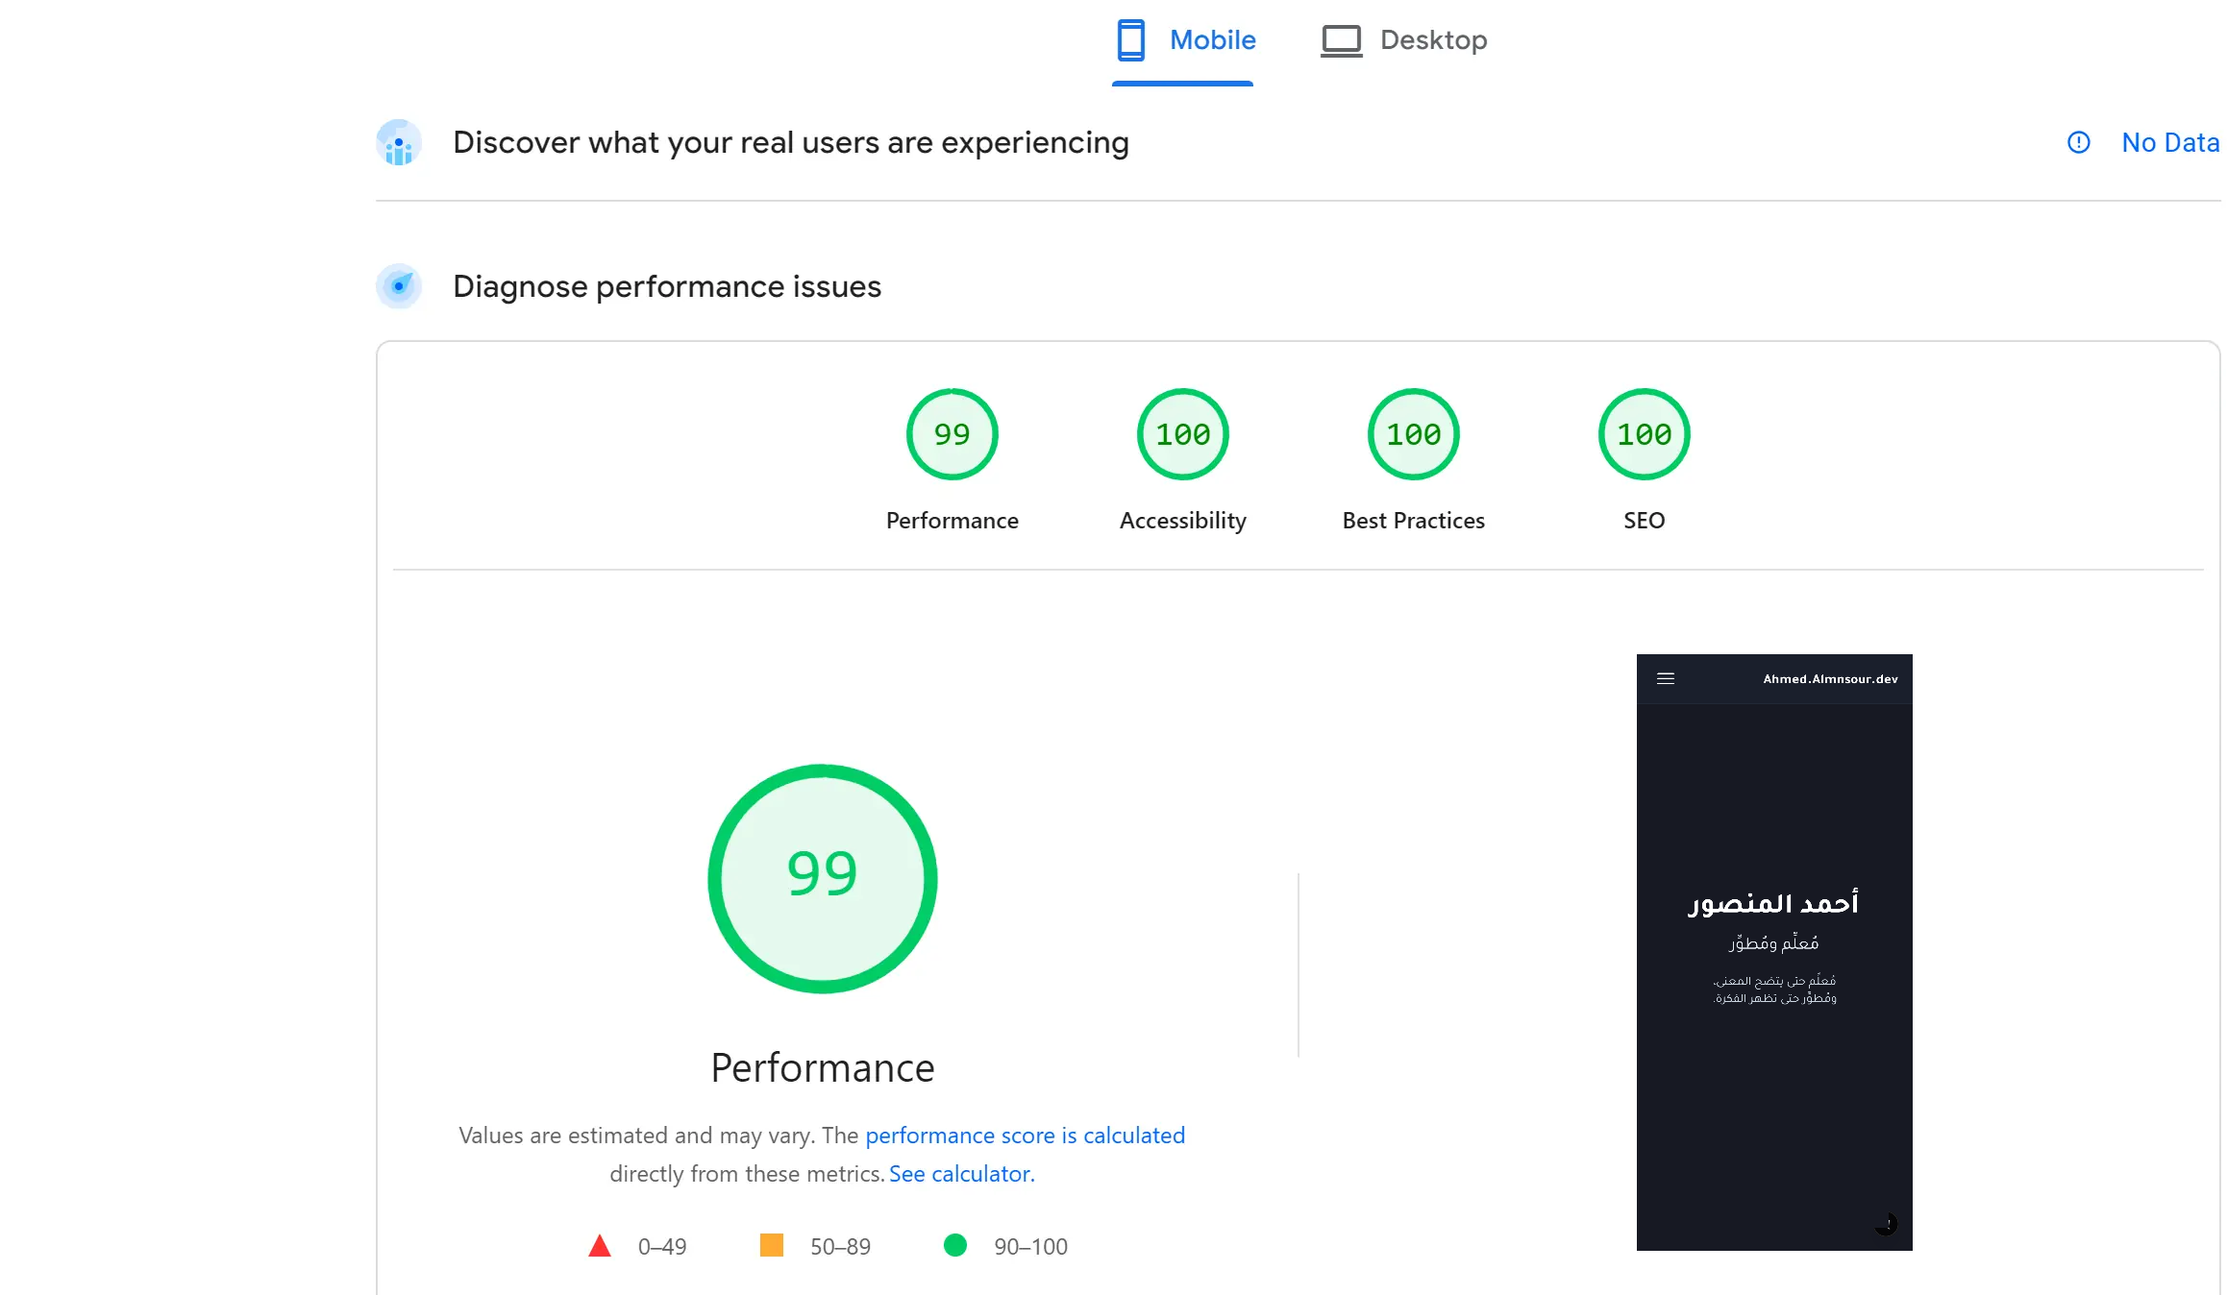
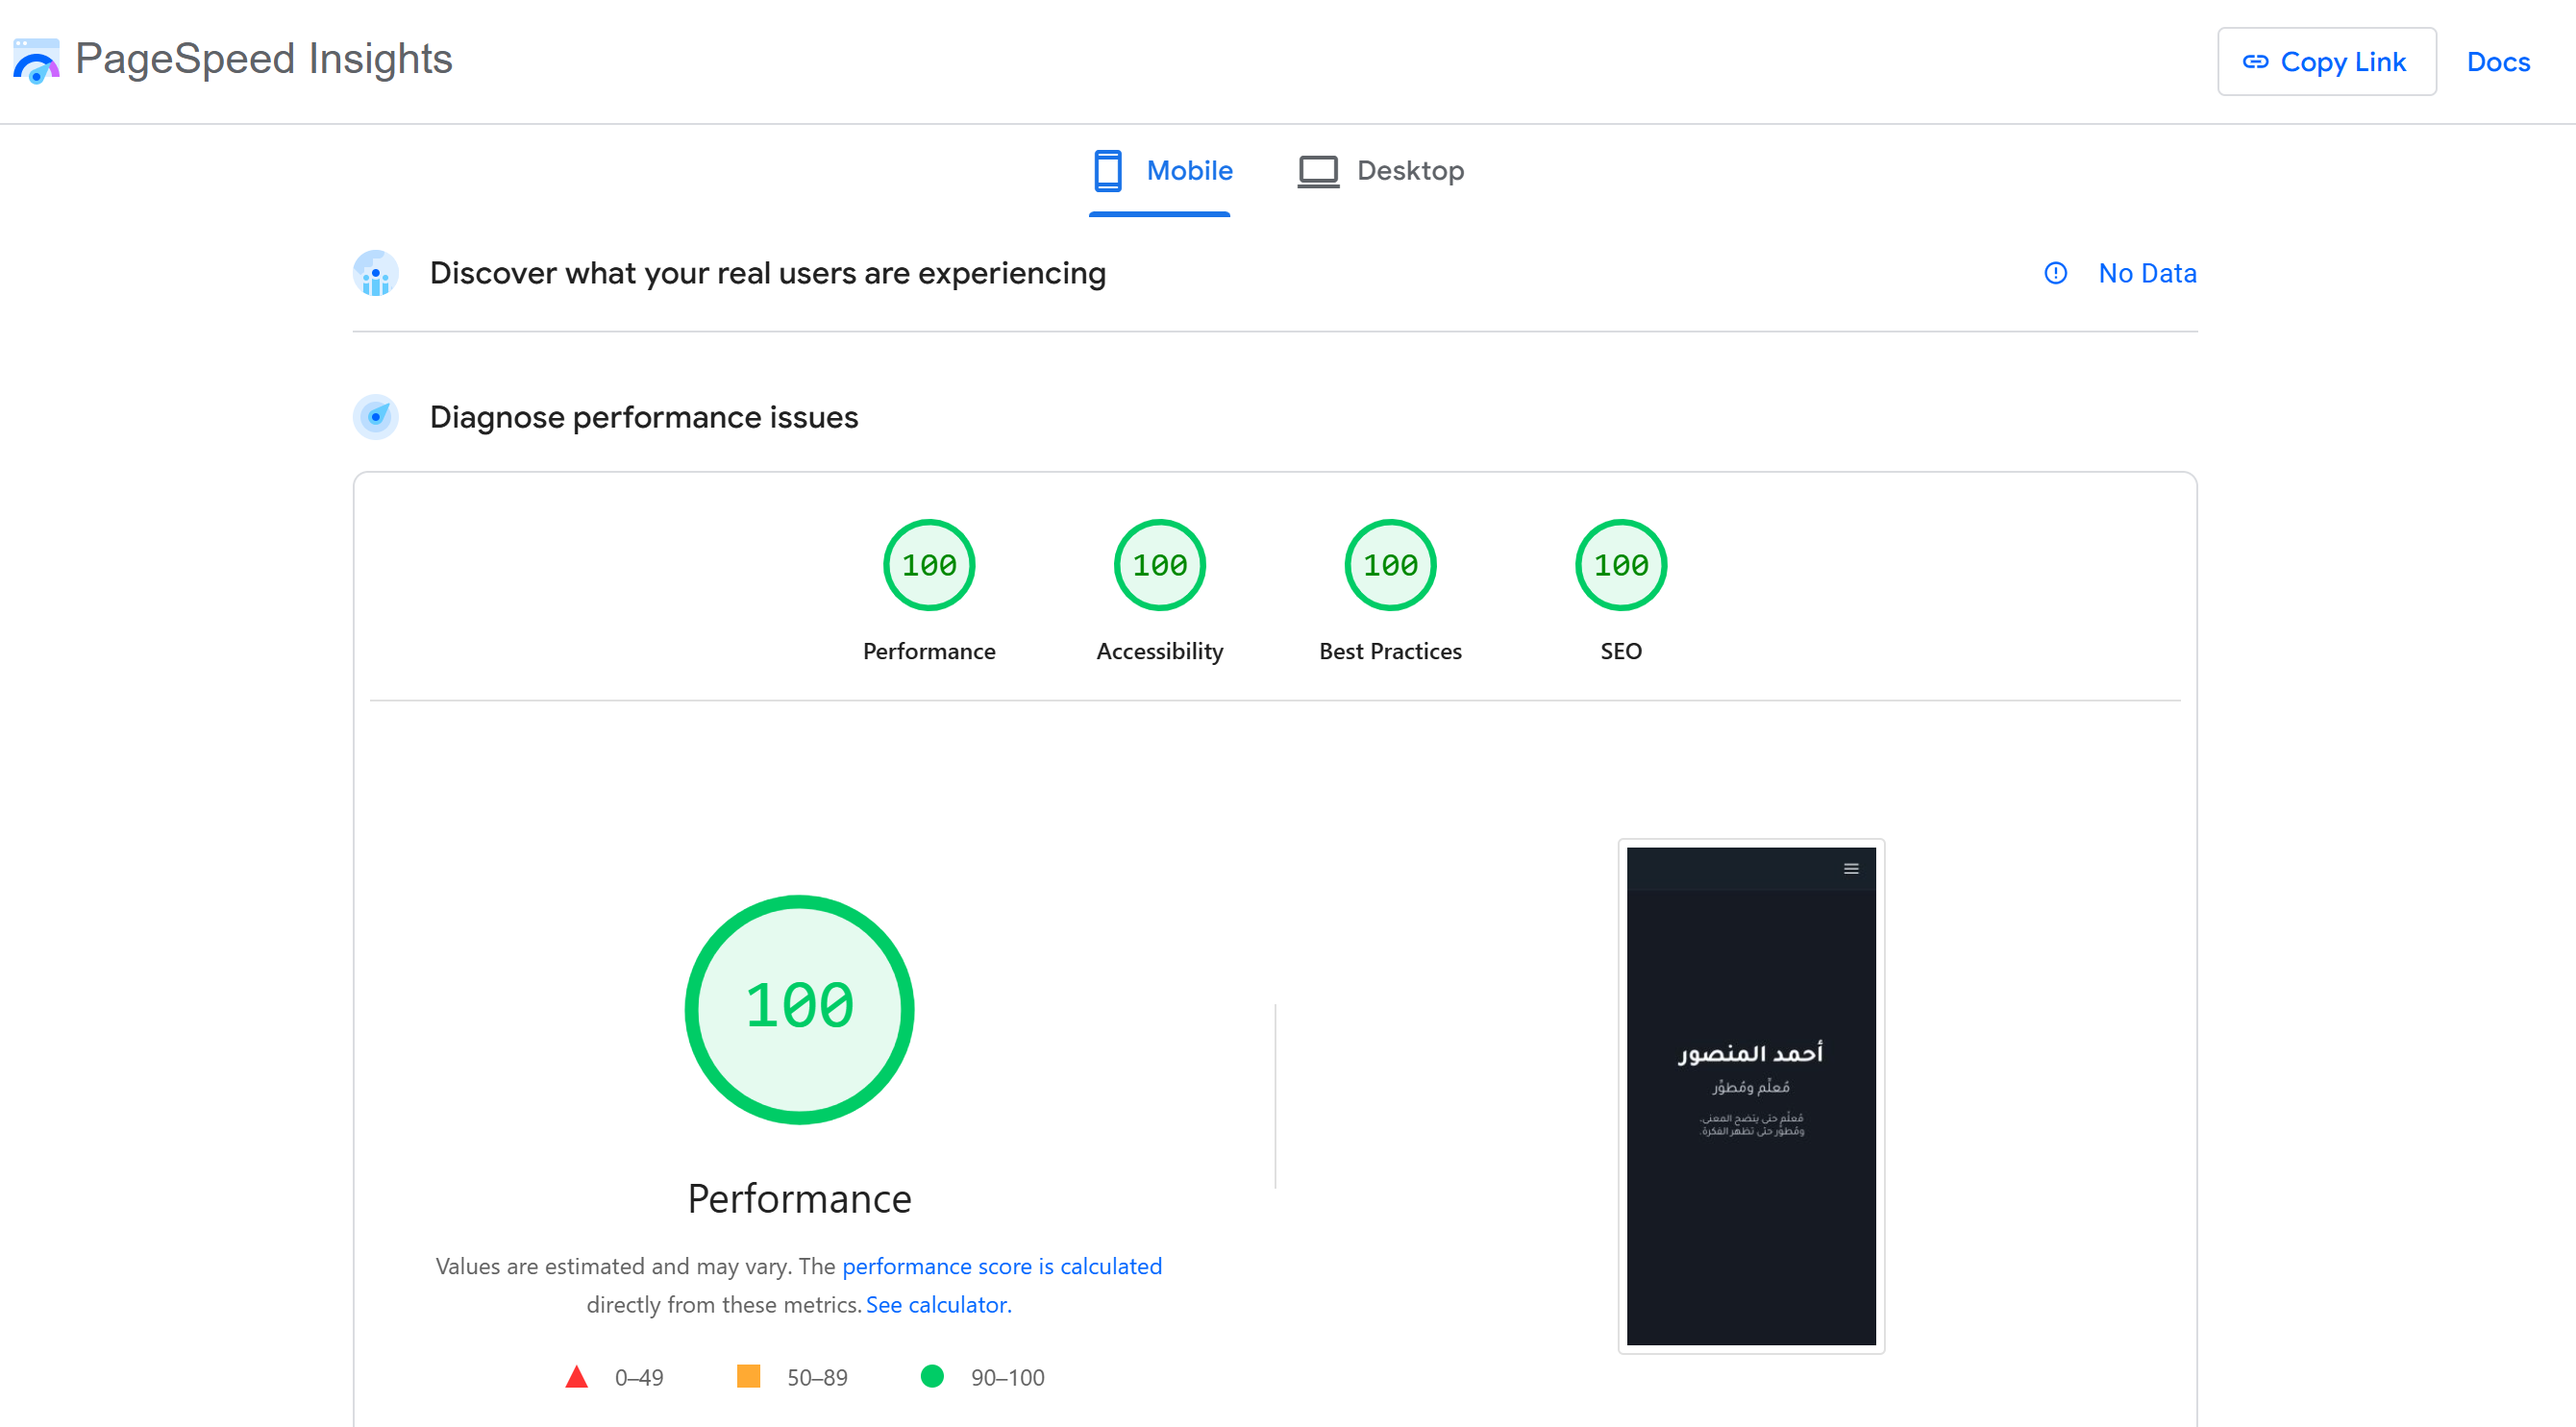
feat: redesign portfolio with Next.js 16 and TypeScript

diff --git a/README.md b/README.md
@@ -1,60 +1,51 @@
-# 📱 موقع أحمد المنصور الشخصي (Portfolio Website)
+# موقعي الشخصي
 
 هنا متنفسي، حيث يلتقي الكود بالكلمة. مقالات تقنية، تحديات، وتجارب من الميدان.
 
-🔗 **رابط الموقع المباشر:** [ahmed.almnsour.net](https://ahmed.almnsour.net/)
+![Next.js](https://img.shields.io/badge/Next.js-16-000?logo=nextdotjs)
+![TypeScript](https://img.shields.io/badge/TypeScript-5-3178C6?logo=typescript&logoColor=white)
+![CSS Modules](https://img.shields.io/badge/CSS_Modules-1572B6?logo=css3&logoColor=white)
+![Vercel](https://img.shields.io/badge/Deployed%20on-Vercel-000?logo=vercel)
 
 <p align="center">
-  <img src="public/mockup.png" alt="Ahmed AlMansour Portfolio" width="100%" />
+  <img src="public/mockup.png" alt="موقع أحمد المنصور" width="100%" />
 </p>
+
+**[🔗 الموقع المباشر](https://ahmed.almnsour.net)**
 
 ---
 
-## 📊 الأداء
+## الأداء
 
-100 ديسكتوب · 99 جوال — مقاس بـ Google PageSpeed Insights.
+النتائج في [Google PageSpeed Insights](https://pagespeed.web.dev/):
 
 ![Performance Score](./public/images/performance-score.webp)
 
----
-
-## 🛠 التقنيات المستخدمة
-
-* **TypeScript**: للأمان النوعي، والتطوير الأسرع.
-* **Next.js 16** (App Router): SSR/SSG للأداء والـ SEO.
-* **CSS Modules**: بعيداً عن المكتبات، من أجل التحكم الكامل بالتصميم.
-* **Vercel**: النشر التلقائي بواسطة GitHub، ووقت استجابة سريع.
 
 ---
 
-## 🚀 تشغيل المشروع محليًا
+## التشغيل المحلّي
 
-1. **نسخ المستودع:**
-   ```bash
-   git clone https://github.com/ahmedalmnsour/ahmed-almnsour-dev.git
-    ```
-2.  **الدخول للمجلد:**
-    ```bash
-    cd ahmed-almnsour-dev
-    ```
-3.  **تثبيت المكتبات:**
-    ```bash
-    npm install
-    ```
-4.  **تشغيل خادم التطوير:**
-    ```bash
-    npm run dev
-    ```
-5.  افتح [http://localhost:3000](http://localhost:3000) في متصفحك.
+```bash
+git clone https://github.com/ahmedalmnsour/ahmed-almnsour-dev.git
+cd ahmed-almnsour-dev
+npm install
+npm run dev
+```
+
+افتح [http://localhost:3000](http://localhost:3000) في المتصفّح.
 
 ---
 
-## 💬 تواصل معي
+## لنتحدث
 
-- 📧 البريد الإلكتروني: [almnsour.ahmed@gmail.com](mailto:almnsour.ahmed@gmail.com)
-- 📱 واتساب: [تحدث معي](https://wa.me/96597311821)
-- 💼 LinkedIn: [أحمد المنصور](https://www.linkedin.com/in/ahmedalmnsour/)
+- البريد: [almnsour.ahmed@gmail.com](mailto:almnsour.ahmed@gmail.com)
+- واتساب: [راسلني](https://wa.me/96597311821)
+- لينكدإن: [أحمد المنصور](https://www.linkedin.com/in/ahmedalmnsour/)
 
 ---
 
-> تم إعادة بناء الموقع بالكامل في مايو 2026.
+## الترخيص
+
+- **الكود:** [MIT](./LICENSE) — يمكن استخدامه بحرّية.
+- **المحتوى** (المقالات، الصور، الفيديوهات، التصميم): © أحمد المنصور. جميع الحقوق محفوظة.
